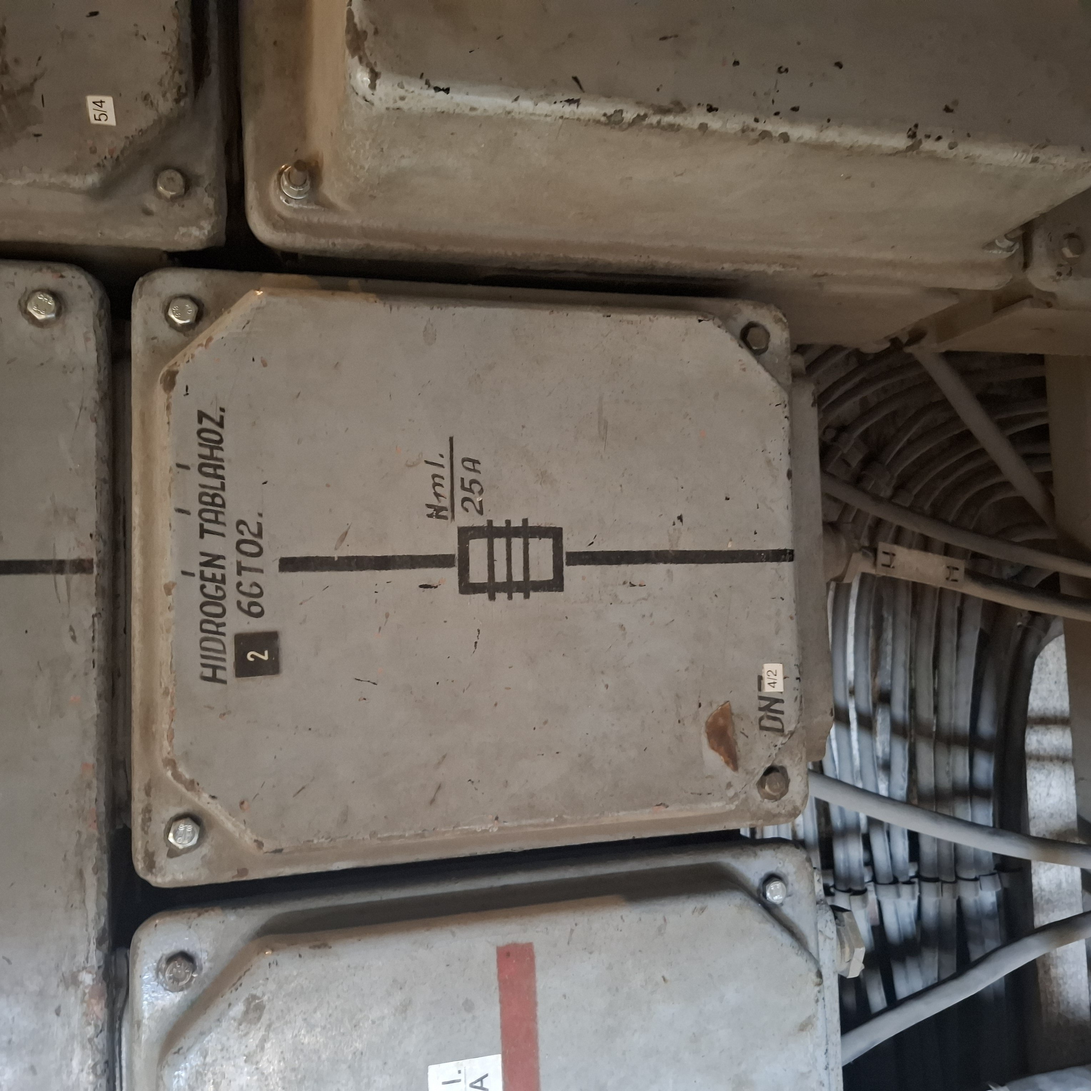
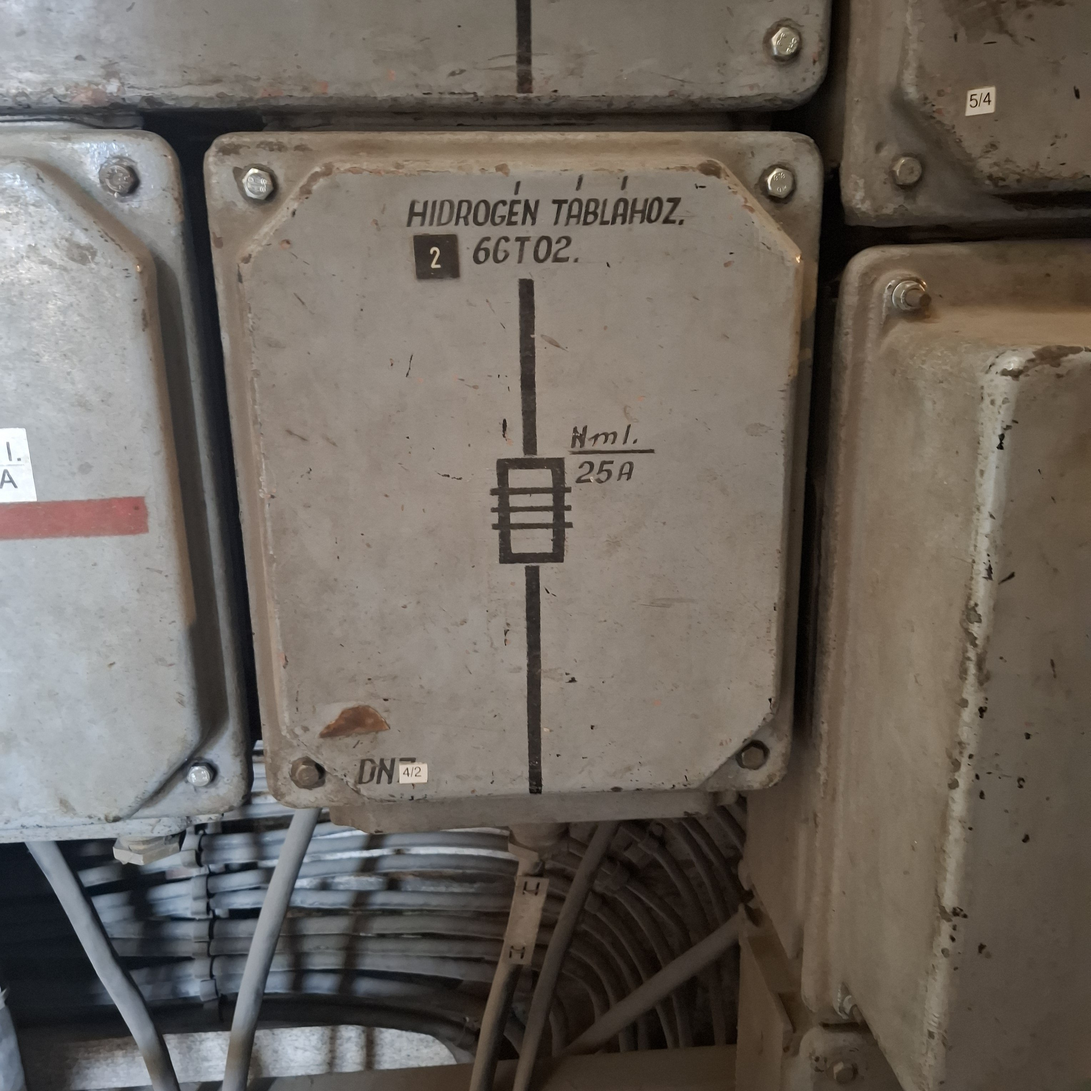
6DN képek

diff --git a/elokeszit.py b/elokeszit.py
@@ -2,7 +2,7 @@ import os
 import shutil
 import json
 import re
-from PIL import Image
+from PIL import Image, ImageOps
 
 def elokeszit():
     home = os.path.expanduser('~')
@@ -56,6 +56,9 @@ def elokeszit():
                 
                 # Kép megnyitása és feldolgozása Pillow-val
                 with Image.open(source_path) as img:
+                    # EXIF orientáció korrekció (megakadályozza a képek elforgatását)
+                    img = ImageOps.exif_transpose(img) or img
+
                     # Ha a kép átlátszó (pl. PNG), teszünk alá egy fehér hátteret, 
                     # mert a JPEG formátum nem támogatja az átlátszóságot (különben fekete lenne).
                     if img.mode in ('RGBA', 'LA') or (img.mode == 'P' and 'transparency' in img.info):
